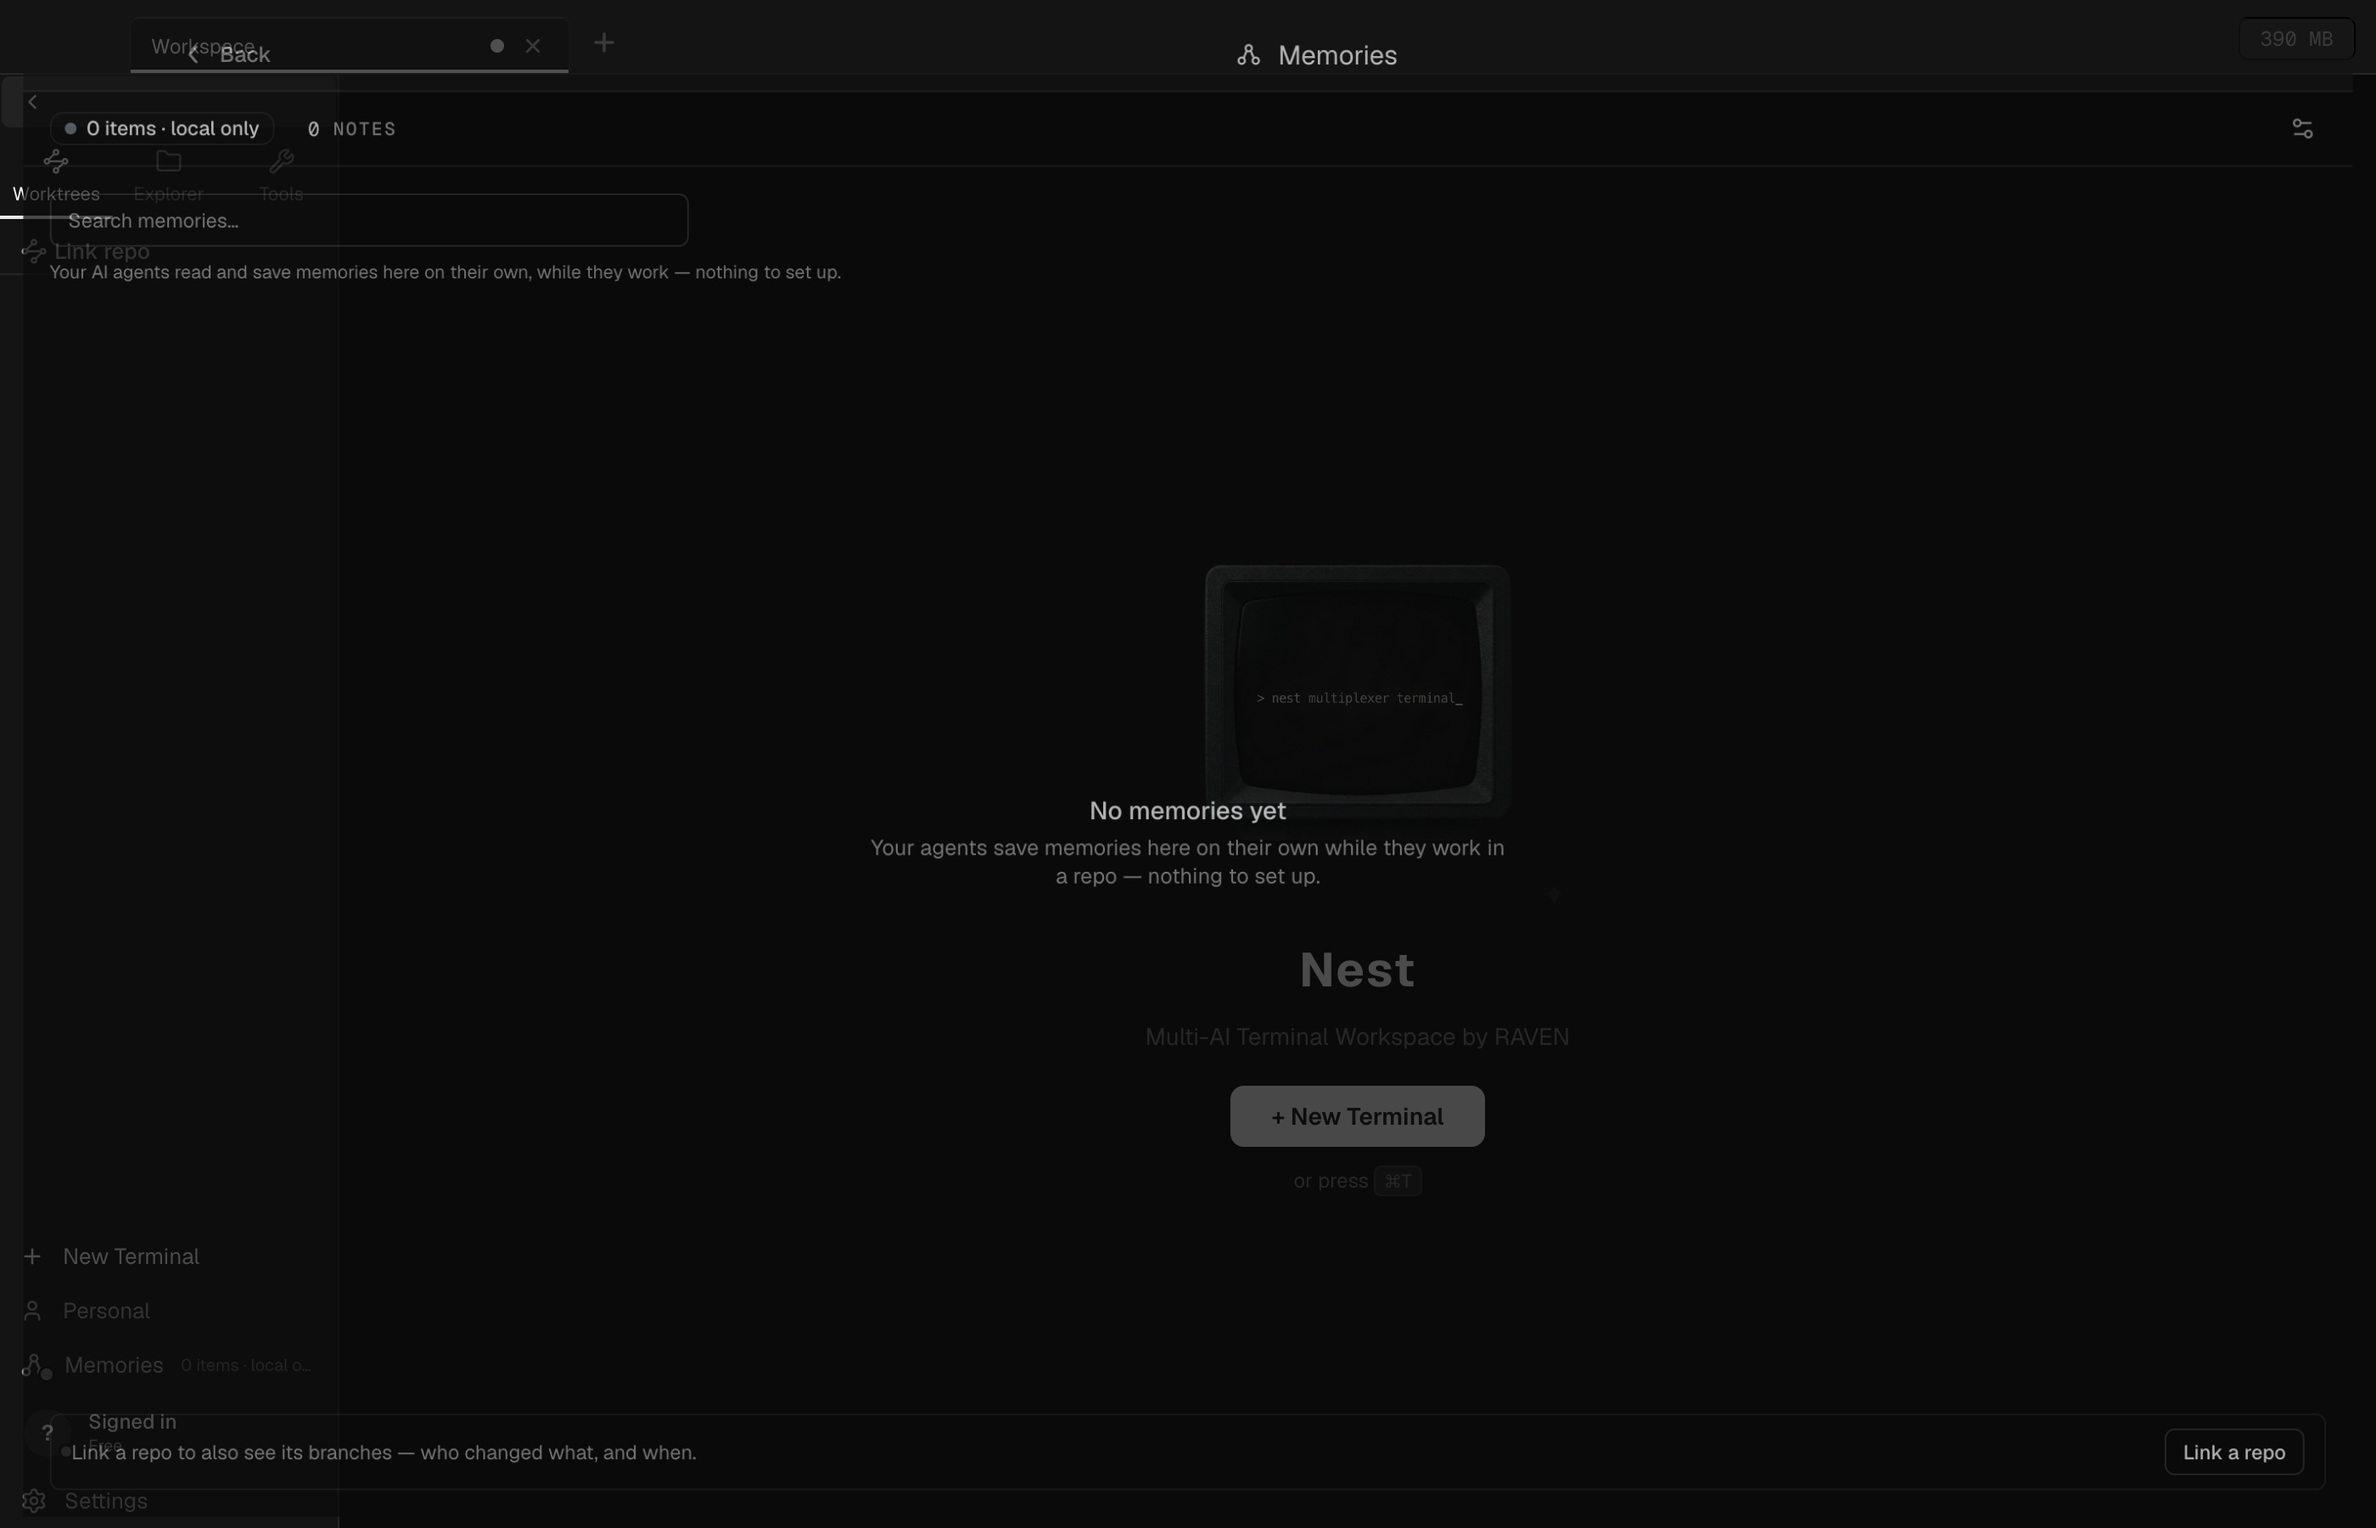
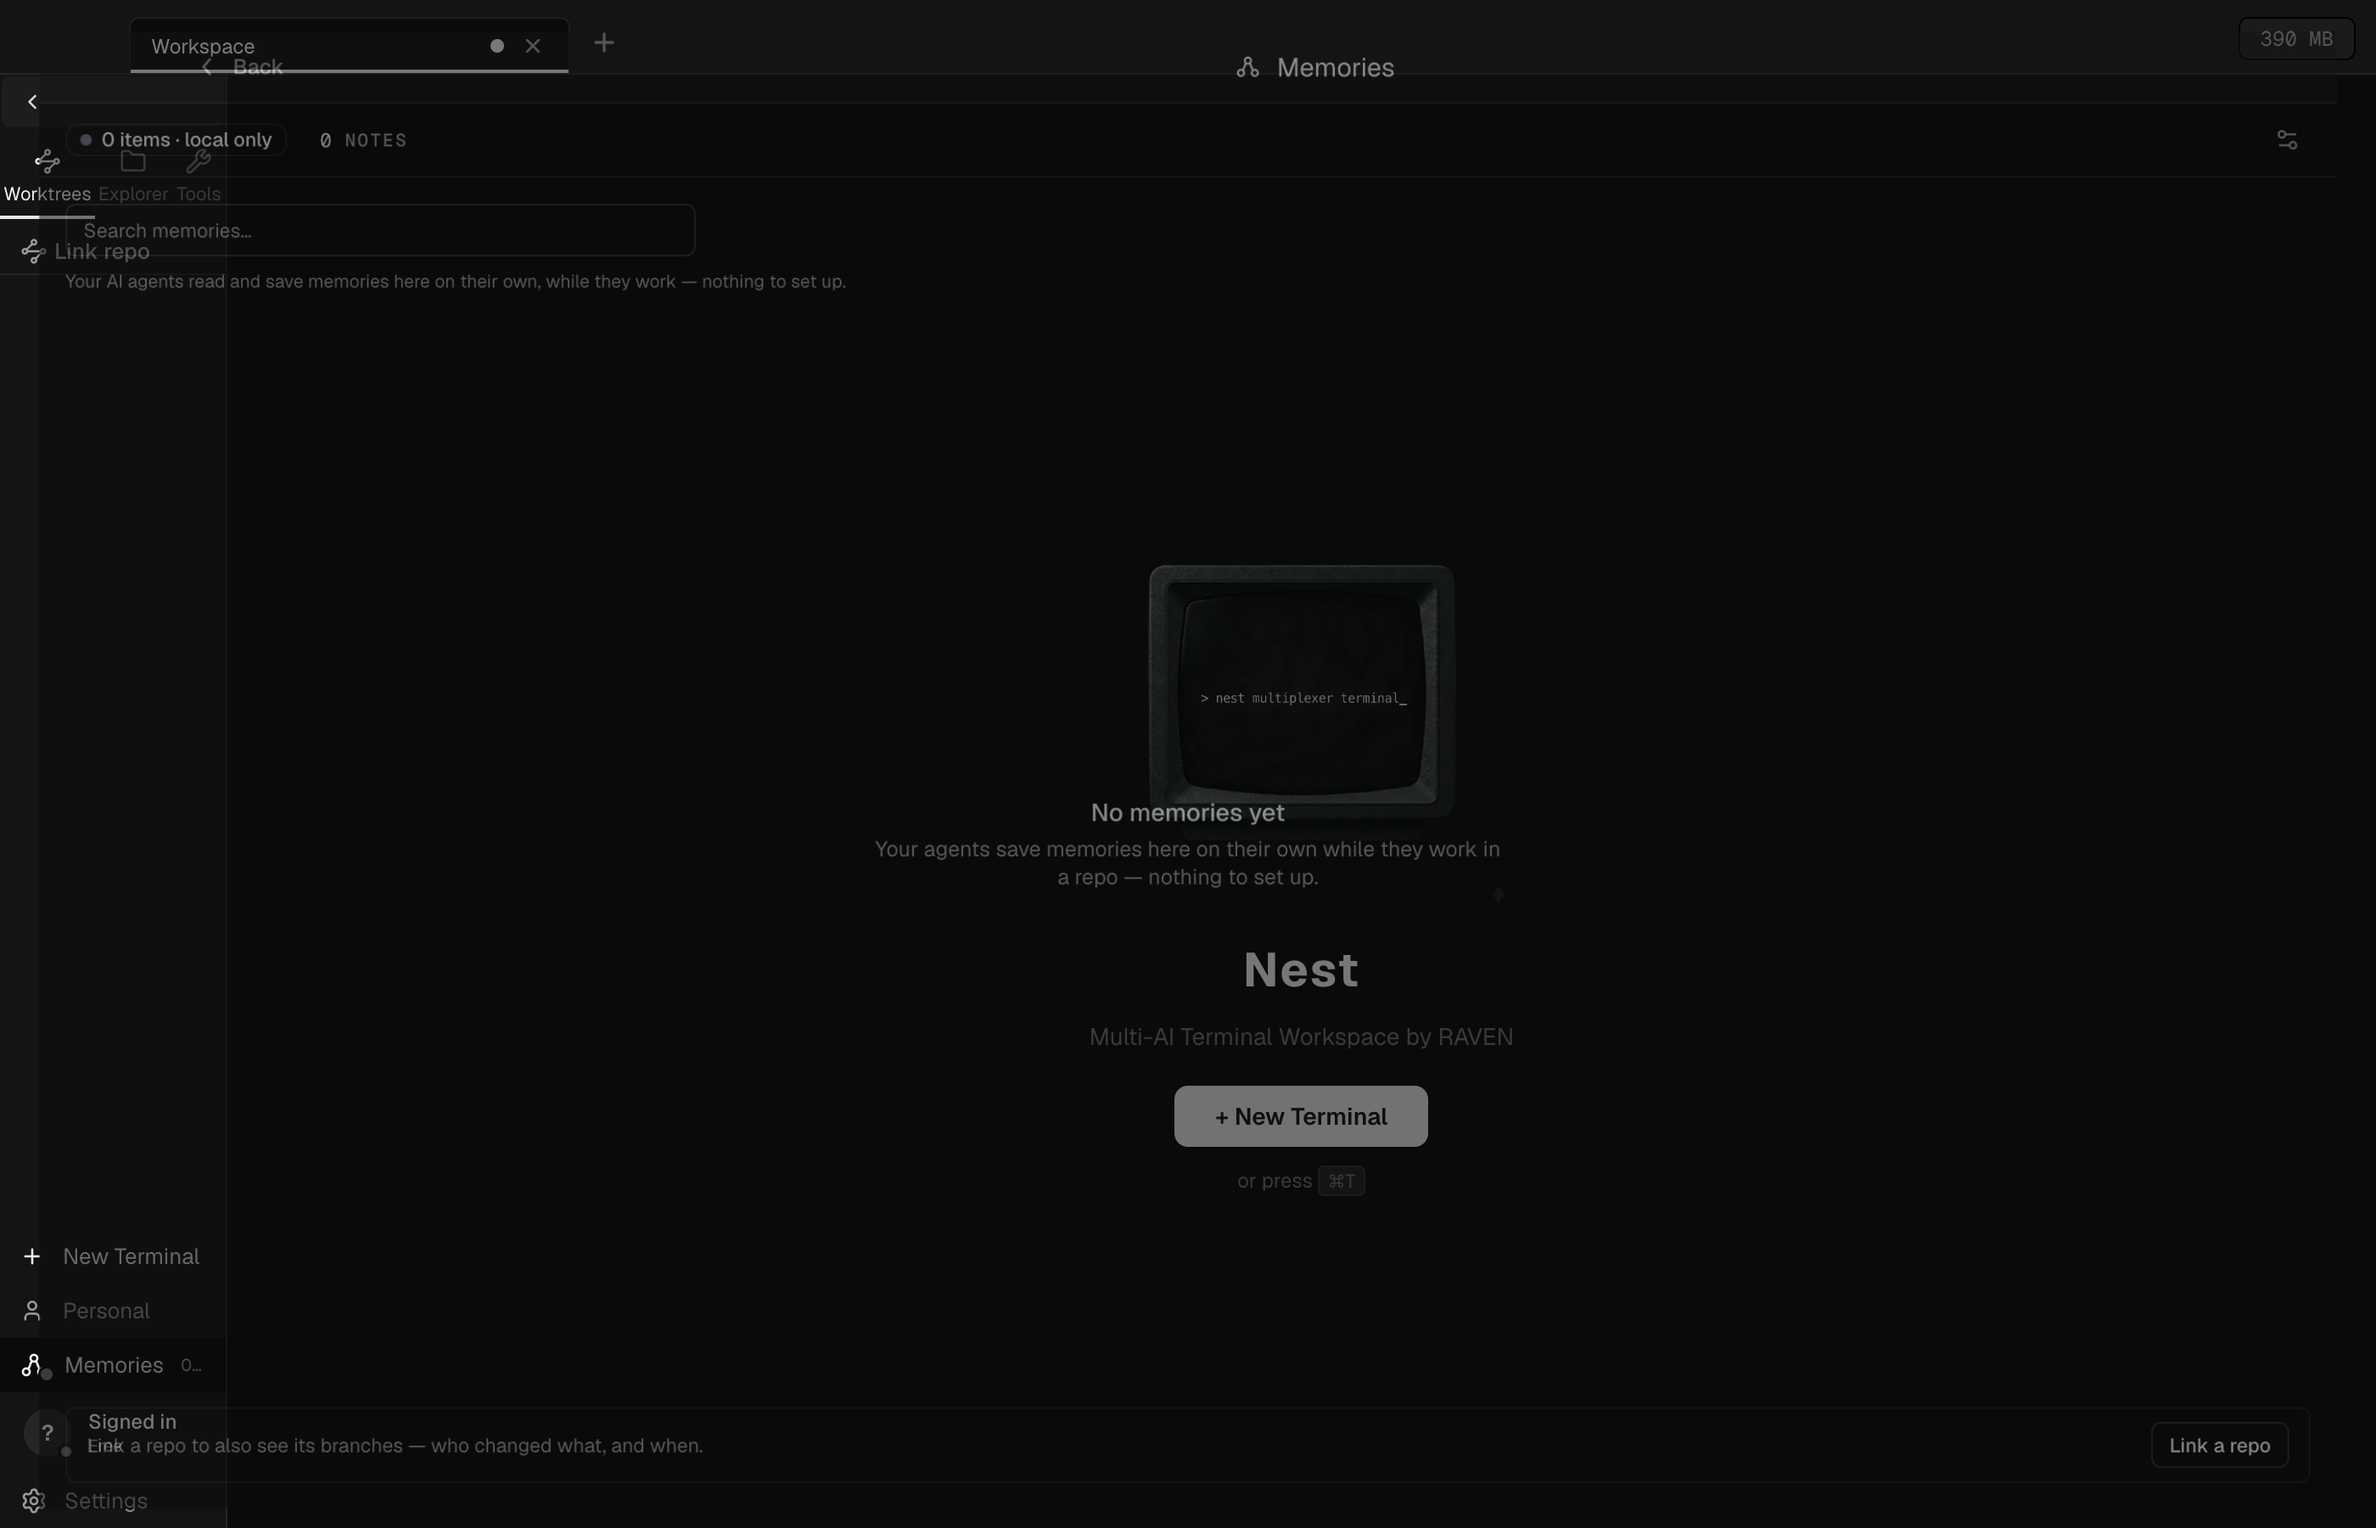
fix(memories): habia dos sistemas de botones en la misma pantalla
El usuario: "lo que no es del 3d no sigue el mismo front end, siento que esos
menus son de otra calidad o stack". Medido, tenia razon y es literal.

En la superficie de Memories convivian OCHO <button> crudos con clases hechas a
mano (.sp-action-btn, .sp-btn-danger, .sp-btn-purple, `.team-thread-empty
button`, `.team-thread-graph-header button`) con los <Button> de shadcn del grafo
de memorias. Cada juego con su altura, su radio y su padding, a diez centimetros
uno del otro.

El .sp-btn-purple ademas es un literal cromatico fuera de la allow-list, en una
pantalla donde el acento es acromatico y el color es ESTADO. Prender el vault no
es destructivo ni marca: es la accion primaria.

Migrados: el toggle del vault, "Regenerate now", "Open folder", "Share", "Turn
on", "Show all branches" y "Turn off".

**Y una trampa que no alcanzaba con dejar de usar las clases.** Las reglas
`.team-thread-empty button` y `.team-thread-graph-header button` son selectores
de DESCENDIENTE: le pegaban a cualquier <button> adentro del contenedor
--incluido el que shadcn renderiza-- y, al vivir fuera de toda @layer, le ganaban
a las utilidades de Tailwind. Los botones migrados habrian seguido con el alto y
el padding viejos sin que nadie lo note. Es la trampa que RECETA-MIGRACION-UI.md
documenta como la mas cara de esta migracion, y aparecio sola.

De Orca (onorca.dev/docs/settings, verificado y no supuesto): sus settings son
[…]

diff --git a/src/styles/global.css b/src/styles/global.css
@@ -7234,6 +7234,14 @@ button.ci-badge:hover {
   margin-bottom: 8px;
 }
 
+/* Las reglas `.team-thread-empty button` y `.team-thread-graph-header button` se borraron
+   el 2026-09-11, cuando esos botones pasaron a ser el <Button> de shadcn.
+   NO alcanzaba con dejar de usar las clases: eran selectores de DESCENDIENTE, asi que le
+   pegaban a cualquier <button> adentro del contenedor --incluido el que shadcn renderiza--
+   y, al vivir fuera de toda @layer, le ganaban a las utilidades de Tailwind. Un boton
+   migrado habria seguido con el alto, el radio y el padding viejos, sin que nadie lo note.
+   Es la trampa que RECETA-MIGRACION-UI.md documenta como la mas cara de esta migracion. */
+
 .team-thread-empty {
   display: flex;
   flex-direction: column;
@@ -7245,22 +7253,6 @@ button.ci-badge:hover {
   line-height: 1.5;
   color: var(--text-secondary);
   margin: 0;
-}
-.team-thread-empty button {
-  padding: 5px 12px;
-  background: transparent;
-  color: var(--primary);
-  border: 1px solid color-mix(in srgb, var(--primary) 33%, transparent);
-  border-radius: 6px;
-  font-size: 12px;
-  font-family: inherit;
-  cursor: pointer;
-  transition: background 0.15s ease, border-color 0.15s ease;
-}
-.team-thread-empty button:hover { background: color-mix(in srgb, var(--primary) 8%, transparent); }
-.team-thread-empty button:focus-visible {
-  outline: none;
-  box-shadow: 0 0 0 2px color-mix(in srgb, var(--primary) 33%, transparent);
 }
 
 .team-thread-graph {
@@ -7280,36 +7272,8 @@ button.ci-badge:hover {
   gap: 6px;
   flex-wrap: wrap;
 }
-.team-thread-graph-header button {
-  padding: 4px 10px;
-  background: var(--bg-surface);
-  color: var(--text-secondary);
-  border: 1px solid var(--border);
-  border-radius: 6px;
-  font-size: 11px;
-  font-family: inherit;
-  cursor: pointer;
-  transition: background 0.15s ease, color 0.15s ease;
-}
-.team-thread-graph-header button:hover {
-  background: var(--bg-elevated);
-  color: var(--text-primary);
-}
-.team-thread-graph-header button:focus-visible {
-  outline: none;
-  box-shadow: 0 0 0 2px var(--ring);
-}
 /* "Turn off" es la accion destructiva de este panel (borra la carpeta local y saca
    el puntero de AGENTS.md), asi que va en la paleta de .sp-btn-danger. */
-.team-thread-graph-header button:last-of-type {
-  color: var(--destructive);
-  border-color: #ef444455;
-}
-.team-thread-graph-header button:last-of-type:hover {
-  background: #ef444415;
-  border-color: #ef4444aa;
-  color: var(--destructive);
-}
 .team-thread-graph-header span {
   font-size: 11px;
   color: var(--text-muted);

diff --git a/src/components/MemoryVaultCard.tsx b/src/components/MemoryVaultCard.tsx
@@ -1,4 +1,5 @@
 import { useEffect, useState, useCallback } from 'react'
+import { Button } from '@/components/ui/button'
 
 type VaultSettings = { version: number; enabled: boolean; root: string | null; includeSuperseded: boolean; includeTeamScope: boolean }
 type VaultResult = { written: number; moved: number; deleted: number; conflicts: number; warnings: unknown[] }
@@ -91,9 +92,18 @@ export default function MemoryVaultCard() {
               : 'Mirror your memory to a folder of Markdown files, one per observation'}
           </span>
         </div>
-        <button className={settings.enabled ? 'sp-btn-danger' : 'sp-btn-purple'} onClick={() => void toggle()} disabled={busy}>
+        {/* Era un <button> con `.sp-btn-danger` / `.sp-btn-purple`, dos clases hechas a
+            mano para esta card. El morado ademas es un literal cromatico fuera de la
+            allow-list, en una pantalla donde el acento es acromatico y el color es ESTADO.
+            Prender el vault no es una accion destructiva ni de marca: es la primaria. */}
+        <Button
+          variant={settings.enabled ? 'outline' : 'default'}
+          size="sm"
+          onClick={() => void toggle()}
+          disabled={busy}
+        >
           {busy ? '…' : settings.enabled ? 'Disable' : 'Enable'}
-        </button>
+        </Button>
       </div>
 
       {settings.enabled && (
@@ -101,13 +111,13 @@ export default function MemoryVaultCard() {
           {rootDir && (
             <div style={{ fontSize: 11, opacity: 0.65, marginTop: 8, wordBreak: 'break-all' }}>{rootDir}</div>
           )}
-          <div style={{ display: 'flex', gap: 8, marginTop: 8 }}>
-            <button className="sp-action-btn" onClick={() => void regenerate()} disabled={busy}>
+          <div className="mt-2 flex gap-2">
+            <Button variant="outline" size="sm" onClick={() => void regenerate()} disabled={busy}>
               {busy ? 'Working…' : 'Regenerate now'}
-            </button>
-            <button className="sp-action-btn" onClick={() => void reveal()} disabled={busy}>
+            </Button>
+            <Button variant="outline" size="sm" onClick={() => void reveal()} disabled={busy}>
               Open folder
-            </button>
+            </Button>
           </div>
           {lastResult && (
             <div style={{ fontSize: 11, opacity: 0.65, marginTop: 6 }}>

diff --git a/src/components/TeamThreadGraph.tsx b/src/components/TeamThreadGraph.tsx
@@ -29,6 +29,7 @@ import { LazyGraph3D } from './Graph3DLazy'
 // así que lo verificable es esto, que además es donde están las decisiones.
 import { ID_INDICE, nodosDelHilo, aristasDelHilo } from '../lib/thread-graph-3d'
 import type { TeamThreadBranch } from '../types'
+import { Button } from '@/components/ui/button'
 
 interface Props {
   branches: TeamThreadBranch[]
@@ -66,7 +67,7 @@ export function TeamThreadGraph({ branches, focus, ahora, enabled, onToggle, onO
     return (
       <div className="team-thread-empty">
         <p>Share this project&apos;s thread with your team so everyone&apos;s context arrives on its own.</p>
-        <button type="button" onClick={() => onToggle(true)}>Turn on</button>
+        <Button size="sm" onClick={() => onToggle(true)}>Turn on</Button>
       </div>
     )
   }
@@ -78,11 +79,14 @@ export function TeamThreadGraph({ branches, focus, ahora, enabled, onToggle, onO
 
   return (
     <div className="team-thread-graph">
+      {/* Botones del sistema, no <button> con reglas propias en global.css. Convivian con
+          los <Button> de shadcn del grafo de memorias en la MISMA pantalla, cada juego con
+          su altura, su radio y su padding — dos sistemas a diez centimetros uno del otro. */}
       <header className="team-thread-graph-header">
-        <button type="button" onClick={() => setShowGlobal((v) => !v)}>
+        <Button variant="outline" size="sm" onClick={() => setShowGlobal((v) => !v)}>
           {showGlobal ? 'Show current branch' : 'Show all branches'}
-        </button>
-        <button type="button" onClick={() => onToggle(false)}>Turn off</button>
+        </Button>
+        <Button variant="ghost" size="sm" onClick={() => onToggle(false)}>Turn off</Button>
         {graph.recortados > 0 && <span>{graph.recortados} older branches hidden</span>}
       </header>
 

diff --git a/src/components/ShareProjectCard.tsx b/src/components/ShareProjectCard.tsx
@@ -9,6 +9,7 @@
 import { useEffect, useState } from 'react'
 import { useTeam } from '../hooks/useTeam'
 import { Select, SelectContent, SelectItem, SelectTrigger, SelectValue } from '@/components/ui/select'
+import { Button } from '@/components/ui/button'
 
 interface Props {
   activeRepoPath: string | null
@@ -81,9 +82,12 @@ export default function ShareProjectCard({ activeRepoPath }: Props) {
                 ))}
               </SelectContent>
             </Select>
-            <button onClick={share} disabled={busy || !projectKey}>
-              {busy ? 'Sharing...' : 'Share'}
-            </button>
+            {/* Era un <button> pelado al lado de un <Select> de shadcn: el select tenia la
+                altura y el radio del sistema y el boton los del navegador, uno junto al
+                otro en la misma fila. */}
+            <Button size="sm" onClick={share} disabled={busy || !projectKey}>
+              {busy ? 'Sharing…' : 'Share'}
+            </Button>
           </div>
           {result && (
             <p className={result.ok ? 'memories-ok' : 'memories-warn'}>{result.text}</p>
